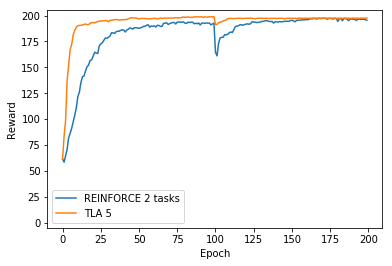
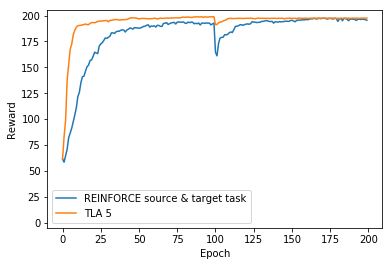
Improved some graphs and notes

Changed region(s): [[0.3673, 0.6917, 0.6429, 0.782], [0.4592, 0.812, 0.6429, 0.8421]]

diff --git a/presentation/main.tex b/presentation/main.tex
@@ -1,4 +1,4 @@
-
+\usepackage{bm} % To put math text in bold
 \usepackage{hyperref}
 
 %\usetheme{vub}
@@ -135,7 +135,7 @@
 \note{
     \begin{itemize}
         \item Learn by trial-and-error
-        \item Do action in a state \rightarrow get reward
+        \item Do action in a state -> get reward
         \item Use policy to select actions
         \item Action produced using value function for state and action or directly: policy gradient
         \item Policy gradient:
@@ -196,6 +196,8 @@
 \note{
     \begin{itemize}
         \item Use information about source task(s) to improve target task performance
+        \item For example same game with different difficulty
+        \item Improve:
         \begin{itemize}
             \item Jumpstart, Asymptotic, Total reward, Time until threshold
         \end{itemize}
@@ -203,6 +205,7 @@
         \item Tasks with same/different state and action space
         \begin{itemize}
             \item Task mapping may be necessary
+            \item To use information about source tasks on target task
         \end{itemize}
     \end{itemize}
 }
@@ -218,12 +221,15 @@
 \end{center}
 \note{
     \begin{itemize}
+        \item combines transfer learning with A3C
         \item Architecture for a specific task $t$
+        \item Uses policy gradient
         \item Policy factorized as knowledge base \& sparse representation
         \begin{itemize}
-            \item Shared knowledge base
+            \item Shared knowledge base: information common amongst tasks
             \item Shared feature extraction
-            \item Each task has own sparse representation
+            \item Each task has own sparse representation: how task differs from common knowledge
+            \item Sparse repr actually kept sparse by adding value to error: L1 loss
         \end{itemize}
         \item Softmax to get action probabilities
     \end{itemize}
@@ -241,8 +247,10 @@
         \item Similar to A3C
         \item Global network has no sparse representation
         \item Each environment has different parameters (next slide)
+        \item Source tasks learned sequentially or in parallel
         \item Global network is always transferred to target task
         \item Random sparse repr. can also be transferred
+        \item On target task: only sparse repr can be changed!
     \end{itemize}
 }
 \end{frame}
@@ -273,7 +281,7 @@
     \begin{itemize}
         \item Cart-pole:
         \begin{itemize}
-            \item Balance pole on cart as long as possible
+            \item Balance pole vertically on cart as long as possible
             \item Force on cart
             \item Different cart mass
             \item Different pole mass \& length
@@ -298,6 +306,7 @@
 \end{center}
 \note{
     \begin{itemize}
+        \item Source tasks until epoch 100; then target task
         \item About the same asymptotic performance
         \item Parallel version is faster (higher total reward (Area Under Curve))
         \item Parallel: changes get applied immediately and effect other tasks
@@ -327,15 +336,26 @@ Feature extraction layer with 5 and 10 units.
 }
 \end{frame}
 
-\begin{frame}[fragile]{Different amount of source tasks}
+\begin{frame}[fragile]{Different amount of tasks}
 \framesubtitle{Cart-pole}
 \vskip1.5cm plus 0.5cm minus 0.1cm
 Using 5 and 10 tasks, compared with \textit{REINFORCE}.
 \begin{center}
-    \includegraphics[width=.8\linewidth]{results/CartPole/no_sparse_transfer/reward_target_re-akt5-akt10.png}
+    \includegraphics[width=.6\linewidth]{results/CartPole/no_sparse_transfer/reward_target_re-akt5-akt10.png}
 \end{center}
+\begin{tabular}{llccc}
+\hline
+Algorithm & Mean & Standard deviation & Median \\
+\hline
+   REINFORCE  & $86.060$ & $25.330$ & $86.886$ \\
+   \textit{TLA 5} & $158.237$ & $23.153$ & $163.840$ \\
+   \textit{TLA 10} & $\bm{165.120}$ & $21.955$ & $\bm{169.034}$ \\
+\hline
+\end{tabular}
 \note{
     \begin{itemize}
+        \item target task performance
+        \item REINFORCE directly on target task
         \item Faster convergence than \textit{REINFORCE}
         \item Jumpstart TLA 10 > TLA 5 > REINFORCE
         \item Same asymptotic performances
@@ -353,6 +373,7 @@ Using 5 and 10 tasks, compared with \textit{REINFORCE}.
 \end{figure}
 \note{
     \begin{itemize}
+        \item asymptotic performances gives more info here
         \item our algorithm is again better
         \item Asymp. performances for REINFORCE vary a lot\dots
         \item But most of the times we don't get past minimum reward
@@ -364,10 +385,20 @@ Using 5 and 10 tasks, compared with \textit{REINFORCE}.
 \begin{frame}[fragile]{Transfer of sparse representation}
 \framesubtitle{Cart-pole}
 \vskip1.5cm plus 0.5cm minus 0.1cm
-Transfer of shared knowledge base and randomly chosen sparse representation.
+Also transfer a randomly chosen sparse representation.
 \begin{center}
-    \includegraphics[width=.8\linewidth]{results/CartPole/sparse_transfer/reward_target_without_with.png}
+    \includegraphics[width=.55\linewidth]{results/CartPole/sparse_transfer/reward_target_without_with.png}
 \end{center}
+    \begin{tabular}{llccc}
+    \hline
+    Algorithm & Sparse transfer & Mean & SD & Median \\
+    \hline
+       \textit{TLA 5} & No & $158.237$ & $23.153$ & $163.840$ \\
+       \textit{TLA 10} & No & $165.120$ & $21.955$ & $169.034$ \\
+       \textit{TLA 5} & Yes & $192.613$ & $28.179$ & $\bm{200.000}$ \\
+       \textit{TLA 10} & Yes & $\bm{196.125}$ & $21.640$ & $\bm{200.000}$ \\
+    \hline
+    \end{tabular}
 \note{
     \begin{itemize}
         \item Same asymptotic performances
@@ -399,6 +430,7 @@ Transfer of ANN weights.
 \end{center}
 \note{
     \begin{itemize}
+        \item REINFORCE first on source task then on target task
         \item Learns faster
         \item Higher jumpstart performance
         \item Same asymptotic performance
@@ -410,8 +442,17 @@ Transfer of ANN weights.
 \framesubtitle{Acrobot}
 \vskip0pt plus 3fill
 \begin{center}
-    \includegraphics[width=.8\linewidth]{results/Acrobot/reinforce_2tasks.png}
+    \includegraphics[width=.7\linewidth]{results/Acrobot/reinforce_2tasks.png}
 \end{center}
+\begin{tabular}{llccc}
+\hline
+Algorithm & Jumpstart & Asymptotic \\
+\hline
+   \textit{REINFORCE source \& target} & $-500$ & $-203.426$ \\
+   \textit{TLA 5} & $\bm{-110.482}$ & $\bm{-93.085}$ \\
+\hline
+\end{tabular}
+(medians)
 \note{
     \begin{itemize}
         \item Learns faster
@@ -425,21 +466,26 @@ Transfer of ANN weights.
 \section{Conclusions}
 \begin{frame}[fragile]{Conclusions}
 \begin{itemize}
-    \item Parallel learning on source tasks better than sequentially
-    \item Feature extraction wasn't beneficial for \textit{cart-pole} and \textit{acrobot}
-    \item Our algorithm performs better than \textit{REINFORCE}
+    \item It's better to use transfer learning
+    \begin{itemize}
+        \item Our algorithm performs better than \textit{REINFORCE}
+    \end{itemize}
     \item It is better to use multiple source tasks
+    \item Parallel learning on source tasks better than sequentially
+    \item Feature extraction wasn't beneficial for our environments
 \end{itemize}
 \note{
     \begin{itemize}
-        \item Parallel better than sequentially
-        \item Feature extraction wasn't beneficial for \textit{cart-pole} and \textit{acrobot}
-        \item Our algorithm performs better than \textit{REINFORCE}
+        \item It's better to use transfer learning
+        \begin{itemize}
+            \item Our algorithm performs better than \textit{REINFORCE}
+        \end{itemize}
         \item It is better to use multiple source tasks
+        \item Parallel learning on source tasks better than sequentially
+        \item Feature extraction wasn't beneficial for our environments
     \end{itemize}
 }
 \end{frame}
-
 
 \begin{frame}[fragile]{Conclusions}
 \framesubtitle{Future work}
@@ -453,6 +499,7 @@ Transfer of ANN weights.
 \note{
     \begin{itemize}
         \item Apply on environments with feature extraction (e.g. \textit{Pong}, \textit{Breakout})
+        \item For example using CNN
         \item Transfer between different environments
         \begin{itemize}
             \item Using task mappings

diff --git a/report/expsetup.tex b/report/expsetup.tex
@@ -135,7 +135,7 @@ It can be seen visually that, on average, in all the configurations the jumpstar
        \textit{TLA 10} & $\bm{165.120}$ & $21.955$ & $\bm{169.034}$ \\
     \hline
     \end{tabular}
-    \caption{Mean, standard deviation and median of the jumpstart performances for \textit{REINFORCE}, \textit{TLA 5} and \textit{TLA 10} applied to the cart-pole environment.}
+    \caption{Mean, standard deviation and median of the jumpstart performances for \textit{REINFORCE}, \textit{TLA 5} and \textit{TLA 10} applied to the \emph{cart-pole} environment.}
     \label{tab:cartpole:nosparse:stats}
 \end{table}
 It can be seen that the best jumpstart performance is achieved using \textit{TLA 10}, as it has the highest mean and median and varies the least. Because it learned on more source tasks, it has more samples from the distribution of environment parameters and thus it can cover more kinds of task variations. \textit{REINFORCE} performs the worst, as it must learn without any prior learned knowledge.\\
